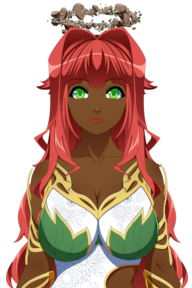
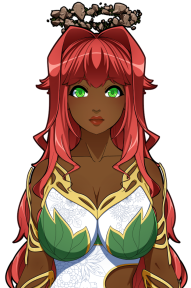
Annikath - updated Tertia

diff --git a/Bust Config.rb b/Bust Config.rb
@@ -793,10 +793,10 @@ Busty::CONFIG.merge!({
     bust_offset_y: 15,
   },
   "Tertia" => {
-    face_offset_x: 84,
-    face_offset_y: 50,
+    face_offset_x: 44,
+    face_offset_y: 49,
 
-    bust_offset_x: -65,
+    bust_offset_x: -25,
     bust_offset_y: 27,
   },
   "Trin" => {
